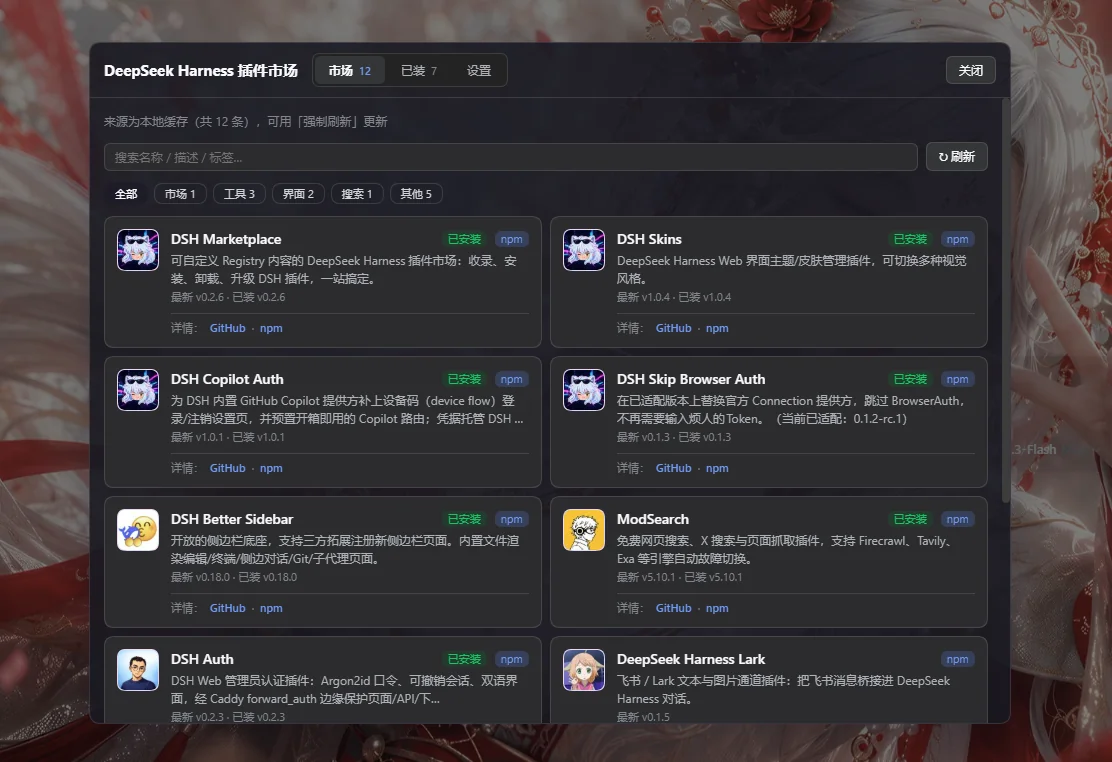
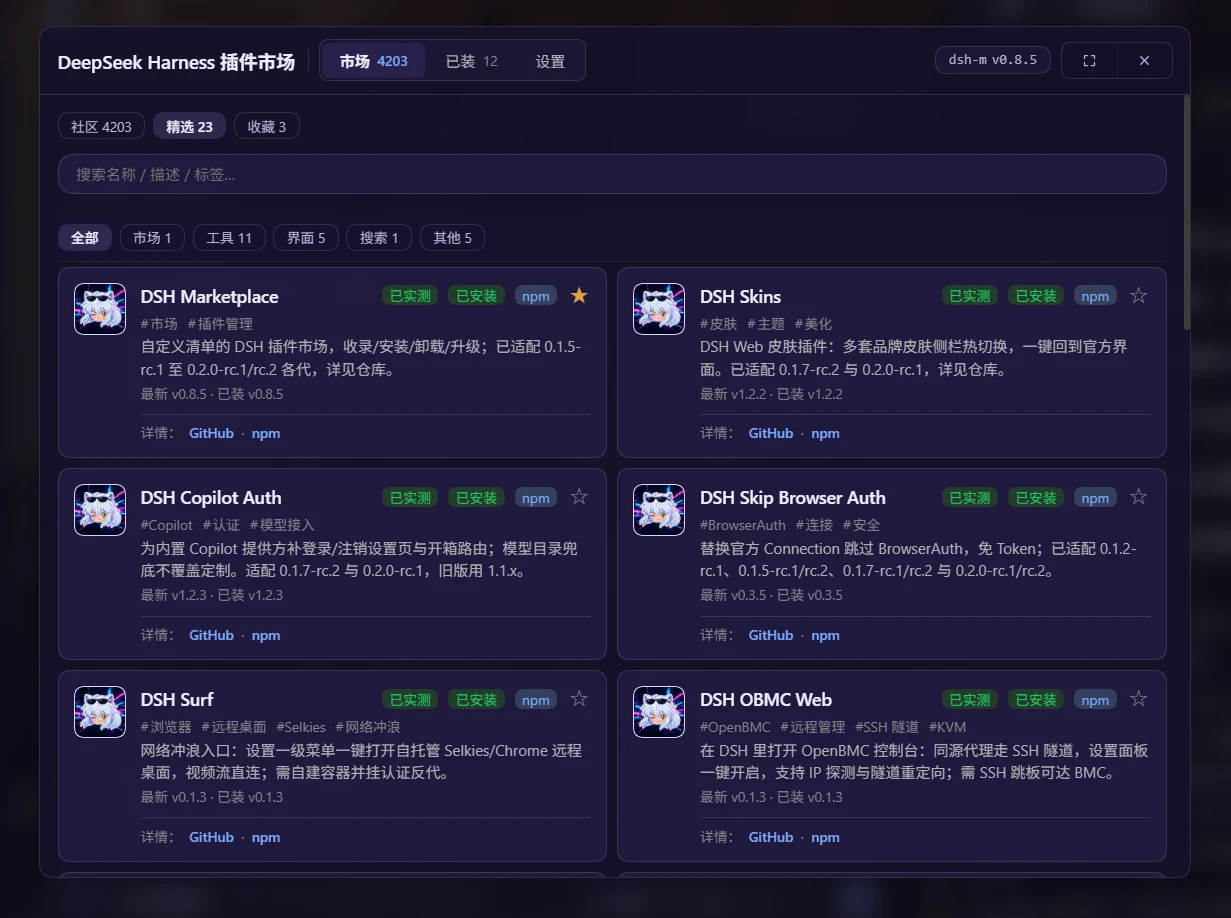
docs(0.9.0): README 截图换新——市场视图三分区 + 设置视图（WebP q88，583KB PNG→131KB −77%）+ 文案保鲜——简介/已装行随双 profile 口径、重启链路显式限定 Web（Desktop 走官方生命周期）、测试面用例数 763→813

diff --git a/README.en.md b/README.en.md
@@ -8,11 +8,11 @@
 
 English · [中文](./README.md)
 
-A DeepSeek Harness (DSH) plugin marketplace with a customizable registry: **browse, install, uninstall, upgrade** — all local. Ships as a DSH web plugin: the "Plugin Marketplace" sidebar entry opens a three-view panel, backed by eight `dshm_*` agent tools and the `dshm` CLI.
+A DeepSeek Harness (DSH) plugin marketplace with a customizable registry: **browse, install, uninstall, upgrade** — all local. Ships as a DSH web plugin: the "Plugin Marketplace" sidebar entry opens a three-view panel, backed by eight `dshm_*` agent tools and the `dshm` CLI. The same package installs into **both the Web (`web`) and official Desktop (`desktop`) profiles** (0.9.0+; capability table in the changelog).
 
 <div align="center">
-  <img src="https://raw.githubusercontent.com/iasiv5/dsh-m/main/docs/images/marketplace.webp" alt="Plugin Marketplace panel — Market view: curated card flow with search and category filters" width="100%">
-  <p><sub>The "Plugin Marketplace" panel · Market view: curated cards · search · category filters · one-click install</sub></p>
+  <img src="https://raw.githubusercontent.com/iasiv5/dsh-m/main/docs/images/marketplace.webp" alt="Plugin Marketplace panel — Market view: Community / Curated / Favorites zones, category chips, and plugin cards (verified / installed badges, npm & GitHub detail links)" width="100%">
+  <p><sub>The "Plugin Marketplace" panel · Market view (Community 4,200+ · Curated 23 · Favorites): click a card to install</sub></p>
 </div>
 
 ## Quick start
@@ -38,10 +38,15 @@ The default registry includes DSH Skins, ModSearch, the Lark / QQ / Weixin / WeC
 |---|---|
 | **Market** | **Zoned** (0.7.0): **Community** (default landing, the 4,000+ full catalog) and **Curated** (hand-picked primary registry, single page) as two independent zones — each keeps its own category/search/sort/pagination state across tab switches; plus a **Favorites** zone (browser-local bookmarks with delisted-entry detection and one-click cleanup). Community zone: two-row collapsible category chips with sticky collapse, sort switch (downloads/stars/added × asc/desc), windowed pagination (24/48/96 per page), card byline (owner/downloads/stars); clicking a card opens a **detail modal** (superset of the card: download window, screenshot lightbox, capabilities collapsed by default, install command); npm sources pin the latest exact version, GitHub sources pin the release/tag commit |
 | **Operations** | Install/upgrade/uninstall/toggle all flow through a global operation log (0.7.0): state lives off cards, surviving paging/searching/tab switches; persisted to localStorage and resumed after host reloads (each restored op re-validated "still applies" before executing); benignly-invalidated ops show as a neutral "skipped"; the Installed page gains "Update all (N)" batch queueing |
-| **Installed** | What your web profile actually has, annotated "via market / non-market"; update badges, upgrade, two-step confirm uninstall; 📖 README preview (64KB cap); **live phase badge** (●active / ●failed / ○pending) and a **one-click toggle** (0.4.0: delegates to the official pluginManager service for live application; falls back to file-level edits + restart notice when absent; dsh-m itself and official host lifelines are locked) |
+| **Installed** | What the current profile (web / desktop, 0.9.0+) actually has, annotated "via market / non-market"; update badges, upgrade, two-step confirm uninstall; 📖 README preview (64KB cap); **live phase badge** (●active / ●failed / ○pending) and a **one-click toggle** (0.4.0: delegates to the official pluginManager service for live application; falls back to file-level edits + restart notice when absent; dsh-m itself and official host lifelines are locked) |
 | **Settings** | Registry address draft with "Force refresh / Validate & apply / Restore default / Download default registry.json"; configured vs active address and status at a glance (shown only when abnormal); community catalog toggle; dsh-m self-update |
 
-After any mutation, the already-open Market and Installed views refresh the profile state together, keeping badges and cards in sync without closing and reopening the marketplace; a "⚡ Restart" banner appears — under systemd, the DSH launcher's `appExit` hook hands the restart back to a unit configured with `Restart=on-failure` or `Restart=always`, avoiding a `systemctl` helper inside the unit cgroup that is about to stop; if `appExit` is unavailable, the fallback uses a manager-owned transient `systemd-run` service and only then a detached helper. The client confirms the replacement by boot id and dismisses the banner, leaving DSH Web's own background connection recovery in control; it does not force a full-page reload during the auth/route handoff. The restart chain has been live-verified on the current DSH Web `0.2.0-rc.2` (2026-10-01): dsh-m probes the unit's `Restart=` policy, hands the stop back via `appExit`, the `status=75/TEMPFAIL` exit is caught by the Restart policy and auto-started, and after recovery the page reconnects in the background with the panel fully functional. Historical scope: the `0.1.5-rc.1` era covered live `/dshm` ping and authenticated `303 → 200` checks; `0.1.2-rc.1` is covered by contract checks plus runtime shape-detection fallback (see the verified array) — with the deployment moved on, no live E2E is chased on retired generations; the transient `systemd-run` fallback only applies to hosts without `appExit` (all supported generations provide it) and stays a documented fallback rather than a release gate; repeated install/uninstall is covered by the profile-transaction test surface (compensation, post-install guard, 763 cases) plus the 0.4.0→0.4.2 consecutive-release evidence. Installs stream live pnpm progress (resolve → download → link → build).
+<div align="center">
+  <img src="https://raw.githubusercontent.com/iasiv5/dsh-m/main/docs/images/settings.webp" alt="Settings view — community catalog status card (catalog version / route / entries), curated registry configuration card (address draft with force-refresh / validate & apply / restore default / download), and the About card" width="86%">
+  <p><sub>Settings view · community catalog status, curated registry configuration, and dsh-m self-update</sub></p>
+</div>
+
+The restart chain below applies to **Web only** (Desktop takes effect via the official app lifecycle: after installing, quit and reopen the Desktop app — see the 0.9.0 section). After any mutation, the already-open Market and Installed views refresh the profile state together, keeping badges and cards in sync without closing and reopening the marketplace; a "⚡ Restart" banner appears — under systemd, the DSH launcher's `appExit` hook hands the restart back to a unit configured with `Restart=on-failure` or `Restart=always`, avoiding a `systemctl` helper inside the unit cgroup that is about to stop; if `appExit` is unavailable, the fallback uses a manager-owned transient `systemd-run` service and only then a detached helper. The client confirms the replacement by boot id and dismisses the banner, leaving DSH Web's own background connection recovery in control; it does not force a full-page reload during the auth/route handoff. The restart chain has been live-verified on the current DSH Web `0.2.0-rc.2` (2026-10-01): dsh-m probes the unit's `Restart=` policy, hands the stop back via `appExit`, the `status=75/TEMPFAIL` exit is caught by the Restart policy and auto-started, and after recovery the page reconnects in the background with the panel fully functional. Historical scope: the `0.1.5-rc.1` era covered live `/dshm` ping and authenticated `303 → 200` checks; `0.1.2-rc.1` is covered by contract checks plus runtime shape-detection fallback (see the verified array) — with the deployment moved on, no live E2E is chased on retired generations; the transient `systemd-run` fallback only applies to hosts without `appExit` (all supported generations provide it) and stays a documented fallback rather than a release gate; repeated install/uninstall is covered by the profile-transaction test surface (compensation, post-install guard, 813 cases) plus the 0.4.0→0.4.2 consecutive-release evidence. Installs stream live pnpm progress (resolve → download → link → build).
 
 ### New in 0.9.0 — Official Desktop (dual profile) support
 

diff --git a/README.md b/README.md
@@ -8,11 +8,11 @@
 
 [English](./README.en.md) · 中文
 
-可自定义收录清单（Registry）的 DeepSeek Harness (DSH) 插件市场：**收录 · 安装 · 卸载 · 升级**，全部本机完成。以 DSH web 插件形态运行——侧栏「插件市场」打开三视图面板，同时提供 `dshm_*` agent 工具与 `dshm` CLI。
+可自定义收录清单（Registry）的 DeepSeek Harness (DSH) 插件市场：**收录 · 安装 · 卸载 · 升级**，全部本机完成。以 DSH web 插件形态运行——侧栏「插件市场」打开三视图面板，同时提供 `dshm_*` agent 工具与 `dshm` CLI；同一包装入 **Web（`web`）与官方 Desktop（`desktop`）两个 profile**（0.9.0 起，能力表见变更节）。
 
 <div align="center">
-  <img src="https://raw.githubusercontent.com/iasiv5/dsh-m/main/docs/images/marketplace.webp" alt="侧栏「插件市场」面板——市场视图：收录卡片流、关键词搜索与分类筛选" width="100%">
-  <p><sub>侧栏「插件市场」· 市场视图：收录卡片流 · 搜索 · 分类筛选 · 展开即装</sub></p>
+  <img src="https://raw.githubusercontent.com/iasiv5/dsh-m/main/docs/images/marketplace.webp" alt="侧栏「插件市场」面板——市场视图：社区 / 精选 / 收藏三分区、分类 chips 与插件卡片（已实测 / 已安装徽标、npm 与 GitHub 详情链接）" width="100%">
+  <p><sub>侧栏「插件市场」· 市场视图：社区 4,200+ · 精选 23 · 收藏，卡片即点即装</sub></p>
 </div>
 
 ## 30 秒上手
@@ -38,10 +38,15 @@
 |---|---|
 | **市场** | **分区制**（0.7.0）：**社区**（默认落地页，4,000+ 条全量目录）与**精选**（手工策展主清单，单页直出）两个独立分区，各有自己的分类/搜索/排序/分页状态（切 tab 互不重置）；另有**收藏**分区（浏览器本地书签，自动检测下架条目并一键清理）。社区区：分类 chips 两行折叠 + 吸顶收缩、排序（下载量/Star/收录日期 × 升降）、页码窗口化分页（24/48/96 每页）、卡片 byline（作者/下载量/Star）；卡片点开**详情 Modal**（卡片信息超集：下载量窗口三要素、截图灯箱、能力披露默认收起、安装命令）；npm 源锁定最新精确版本，GitHub 源锁定 release/tag 指向的 commit |
 | **操作记录** | 安装/升级/卸载/开关全部走全局操作记录（0.7.0）：状态不挂卡片，翻页/搜索/切 tab 不丢；localStorage 持久化，宿主重载后自动恢复未完成操作（逐条校验「此刻仍成立才执行」）；良性前提消失以中性「已跳过」呈现；已装页支持「全部更新 (N)」批量入队 |
-| **已装** | web profile 实装列表，标注「市场安装 / 非市场安装」；可升级徽标、升级、两段式确认卸载；📖 README 预览（64KB 截断）；**运行相位徽标**（●active / ●failed / ○pending）与**一键开关**（0.4.0：委派官方 pluginManager 服务活体生效，服务缺席时文件级编辑 + 重启提示；dsh-m 自身与官方宿主命脉锁定不可开关） |
+| **已装** | 当前 profile（web / desktop，0.9.0 起）实装列表，标注「市场安装 / 非市场安装」；可升级徽标、升级、两段式确认卸载；📖 README 预览（64KB 截断）；**运行相位徽标**（●active / ●failed / ○pending）与**一键开关**（0.4.0：委派官方 pluginManager 服务活体生效，服务缺席时文件级编辑 + 重启提示；dsh-m 自身与官方宿主命脉锁定不可开关） |
 | **设置** | registry 地址草稿 +「强制刷新 / 校验并应用 / 恢复默认 / 下载默认 registry.json」；配置地址、生效来源与状态一目了然（仅异常时提示）；社区目录开关；dsh-m 自更新 |
 
-安装 / 卸载 / 升级完成后，当前已打开的市场页与已装页会一起重新读取 profile 状态并同步徽标/卡片，不需要关闭后重新打开插件市场；随后出现「⚡ 一键重启」横幅——受 systemd 管理时通过 DSH launcher 的 `appExit` 交给服务的 `Restart` 策略，避免在待停止 unit 的 cgroup 内启动 `systemctl` helper；无 `appExit` 的 systemd 兜底改用 manager-owned transient `systemd-run`，最后才退回 detached-helper。客户端按 boot id 确认新进程已恢复后关闭横幅，交由 DSH Web 自身的后台连接重试恢复页面，不强制整页刷新，避免认证/路由切换期间白屏。重启链路已在当前 DSH Web `0.2.0-rc.2` 实机核验（2026-10-01）：dsh-m 探测 unit `Restart=` 策略后经 `appExit` 交还 systemd，`status=75/TEMPFAIL` 退出由 Restart 策略接住自动拉起，服务恢复后页面后台重连、面板全功能可用。历史口径：`0.1.5-rc.1` 时代已核验 `/dshm` ping 与带认证 `303 → 200`；`0.1.2-rc.1` 按契约核对 + 形态探测兜底收录（verified 数组），部署面演进后不再追旧代 live E2E；transient `systemd-run` 兜底仅适用于无 `appExit` 的宿主（受支持代际均提供 `appExit`），保持设计兜底而非发布门槛；连续安装/卸载由 profile 事务测试面（补偿事务、装后守卫等 763 用例）与 0.4.0→0.4.2 连续发布实证覆盖。安装过程实时显示 pnpm 进度（解析 → 下载 → 链接 → 构建）。
+<div align="center">
+  <img src="https://raw.githubusercontent.com/iasiv5/dsh-m/main/docs/images/settings.webp" alt="设置视图——社区清单状态卡（目录版本 / 获取线路 / 收录条目）、精选清单配置卡（地址草稿与强制刷新 / 校验并应用 / 恢复默认 / 下载默认清单）与关于卡" width="86%">
+  <p><sub>设置视图 · 社区清单状态、精选清单配置与 dsh-m 自更新</sub></p>
+</div>
+
+以下重启链路仅适用于 **Web**（Desktop 的生效走官方应用生命周期：安装完成后退出并重新打开 Desktop 应用即可，见 0.9.0 节）。安装 / 卸载 / 升级完成后，当前已打开的市场页与已装页会一起重新读取 profile 状态并同步徽标/卡片，不需要关闭后重新打开插件市场；随后出现「⚡ 一键重启」横幅——受 systemd 管理时通过 DSH launcher 的 `appExit` 交给服务的 `Restart` 策略，避免在待停止 unit 的 cgroup 内启动 `systemctl` helper；无 `appExit` 的 systemd 兜底改用 manager-owned transient `systemd-run`，最后才退回 detached-helper。客户端按 boot id 确认新进程已恢复后关闭横幅，交由 DSH Web 自身的后台连接重试恢复页面，不强制整页刷新，避免认证/路由切换期间白屏。重启链路已在当前 DSH Web `0.2.0-rc.2` 实机核验（2026-10-01）：dsh-m 探测 unit `Restart=` 策略后经 `appExit` 交还 systemd，`status=75/TEMPFAIL` 退出由 Restart 策略接住自动拉起，服务恢复后页面后台重连、面板全功能可用。历史口径：`0.1.5-rc.1` 时代已核验 `/dshm` ping 与带认证 `303 → 200`；`0.1.2-rc.1` 按契约核对 + 形态探测兜底收录（verified 数组），部署面演进后不再追旧代 live E2E；transient `systemd-run` 兜底仅适用于无 `appExit` 的宿主（受支持代际均提供 `appExit`），保持设计兜底而非发布门槛；连续安装/卸载由 profile 事务测试面（补偿事务、装后守卫等 813 用例）与 0.4.0→0.4.2 连续发布实证覆盖。安装过程实时显示 pnpm 进度（解析 → 下载 → 链接 → 构建）。
 
 ### 0.9.0 新增：官方 Desktop（双 profile）支持
 
